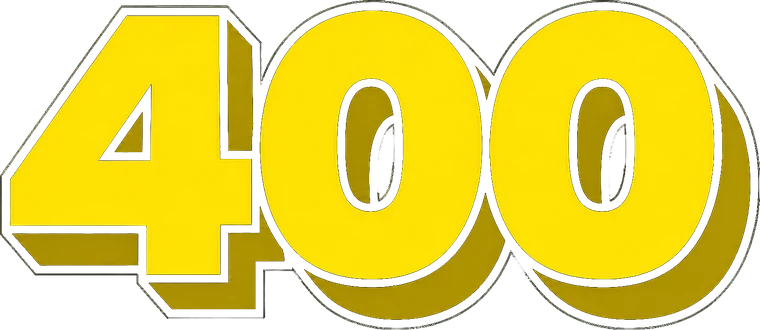
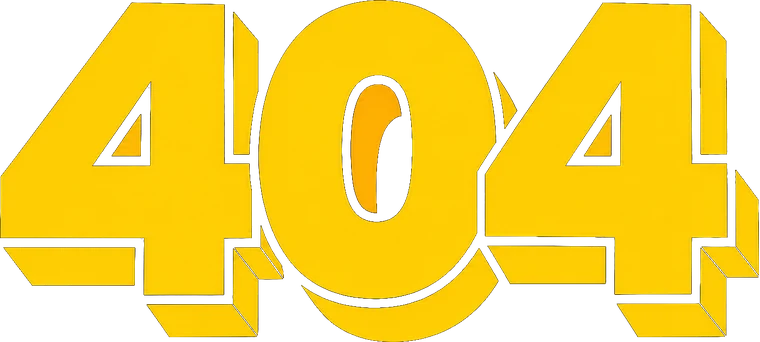
feat(ui): ilustracion 404 en la pagina de error
Reemplaza la ilustracion anterior por una con el numero 404 y el amarillo
de la marca (WebP con fondo transparente, 47 KB).

diff --git a/frontend/src/features/errors/NotFoundPage.tsx b/frontend/src/features/errors/NotFoundPage.tsx
@@ -7,7 +7,7 @@ export function NotFoundPage({ message = 'La página que buscas no existe o fue 
   return (
     <main className="page">
       <div className="page-hero">
-        <img src="/404.webp" alt="" width={380} height={165} style={{ maxWidth: '80%', height: 'auto', margin: '0 auto 8px', display: 'block' }} />
+        <img src="/404.webp" alt="" width={380} height={171} style={{ maxWidth: '80%', height: 'auto', margin: '0 auto 8px', display: 'block' }} />
         <h1>Página no encontrada</h1>
         <p>{message}</p>
         <p style={{ display: 'flex', gap: 12, justifyContent: 'center', flexWrap: 'wrap', marginTop: 24 }}>
